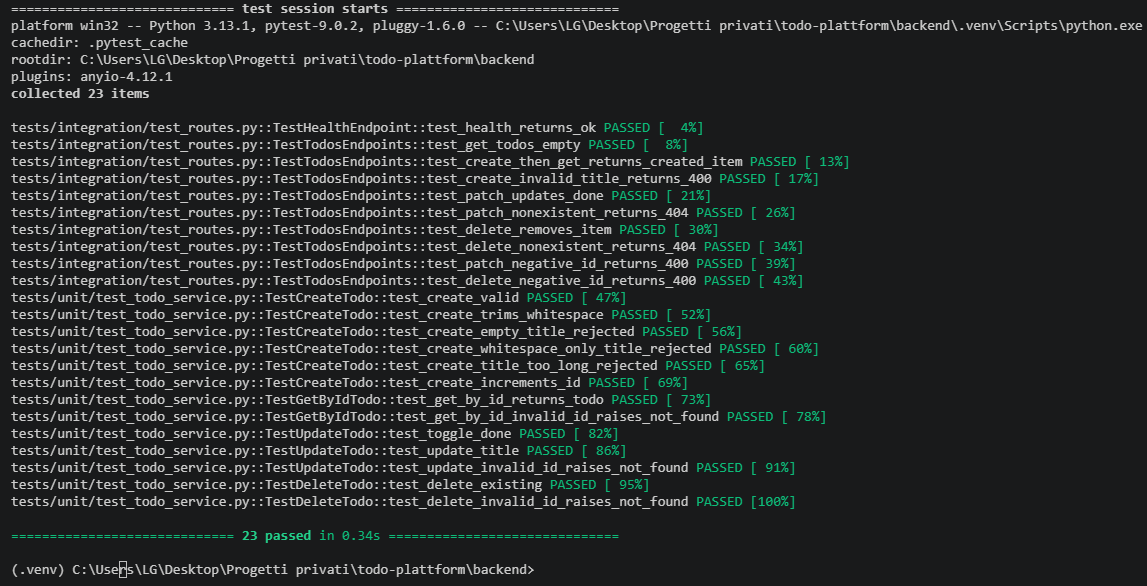
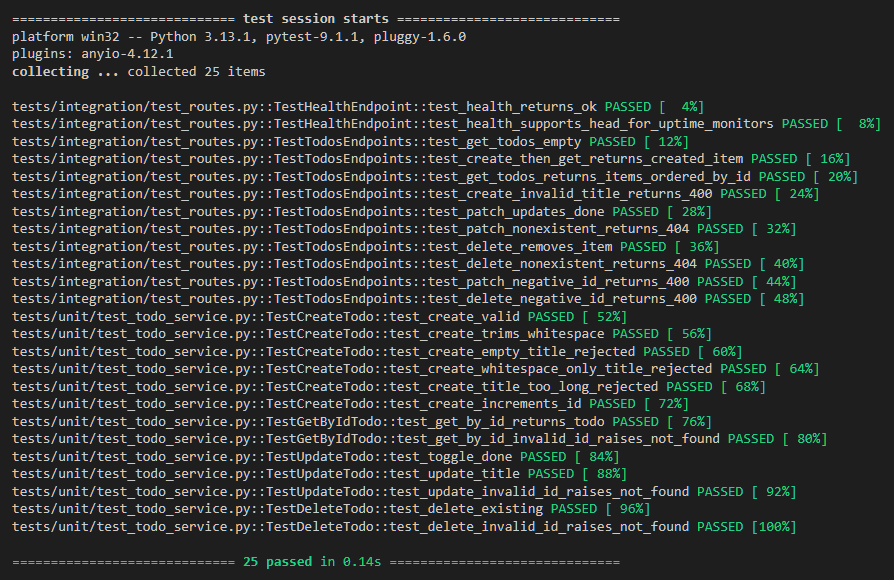
docs(readme): update test count, test list and screenshot
The suite now has 25 tests. The new screenshot shows the real pytest output without local file paths.

diff --git a/README.md b/README.md
@@ -27,7 +27,7 @@ A RESTful Todo API built with **FastAPI** and **SQLAlchemy 2.0**, backed by **SQ
 
 ![API Docs](docs/screenshots/api-docs.png)
 
-### Test Suite — 23/23 Passing
+### Test Suite — 25/25 Passing
 
 ![Tests Passing](docs/screenshots/tests-passing.png)
 
@@ -40,7 +40,7 @@ A RESTful Todo API built with **FastAPI** and **SQLAlchemy 2.0**, backed by **SQ
 - **ISO 8601 UTC** timestamps on all responses (`"created_at": "2026-02-12T10:30:00Z"`)
 - **CORS** default origins include `localhost:5173/5174/5175` and the production frontend; in production, `CORS_ORIGINS` env var restricts to the production URL only
 - Tables created automatically on startup via SQLAlchemy `Base.metadata.create_all`
-- **23 tests** (unit + integration) using SQLite in-memory database
+- **25 tests** (unit + integration) using SQLite in-memory database
 
 ---
 
@@ -89,7 +89,7 @@ todo-platform/
 │   │   └── main.py                     # Entry point (lifespan)
 │   ├── tests/
 │   │   ├── integration/
-│   │   │   └── test_routes.py          # API tests (10)
+│   │   │   └── test_routes.py          # API tests (12)
 │   │   ├── unit/
 │   │   │   └── test_todo_service.py    # Service tests (13)
 │   │   └── conftest.py                 # Fixtures
@@ -300,12 +300,14 @@ cd backend
 pytest -v
 ```
 
-Expected output: **23 passed in 0.19s**.
+Expected output: **25 passed**.
 
 ```
 tests/integration/test_routes.py::TestHealthEndpoint::test_health_returns_ok PASSED
+tests/integration/test_routes.py::TestHealthEndpoint::test_health_supports_head_for_uptime_monitors PASSED
 tests/integration/test_routes.py::TestTodosEndpoints::test_get_todos_empty PASSED
 tests/integration/test_routes.py::TestTodosEndpoints::test_create_then_get_returns_created_item PASSED
+tests/integration/test_routes.py::TestTodosEndpoints::test_get_todos_returns_items_ordered_by_id PASSED
 tests/integration/test_routes.py::TestTodosEndpoints::test_create_invalid_title_returns_400 PASSED
 tests/integration/test_routes.py::TestTodosEndpoints::test_patch_updates_done PASSED
 tests/integration/test_routes.py::TestTodosEndpoints::test_patch_nonexistent_returns_404 PASSED
@@ -327,7 +329,7 @@ tests/unit/test_todo_service.py::TestUpdateTodo::test_update_invalid_id_raises_n
 tests/unit/test_todo_service.py::TestDeleteTodo::test_delete_existing PASSED
 tests/unit/test_todo_service.py::TestDeleteTodo::test_delete_invalid_id_raises_not_found PASSED
 
-23 passed in 0.19s
+25 passed in 0.14s
 ```
 
 > Tests run against an **SQLite in-memory database** — no file written, no cleanup needed.
